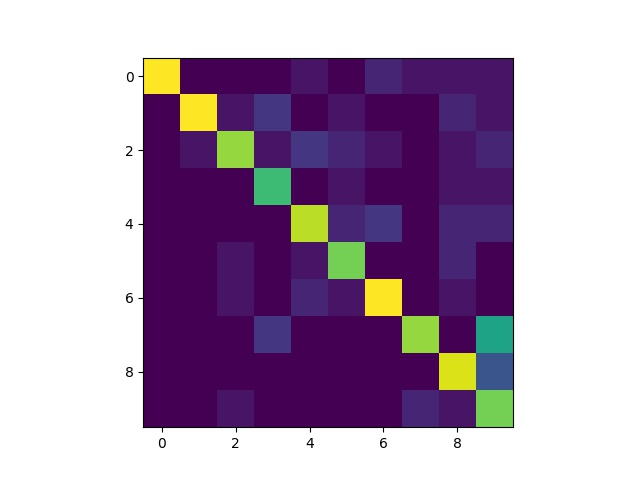
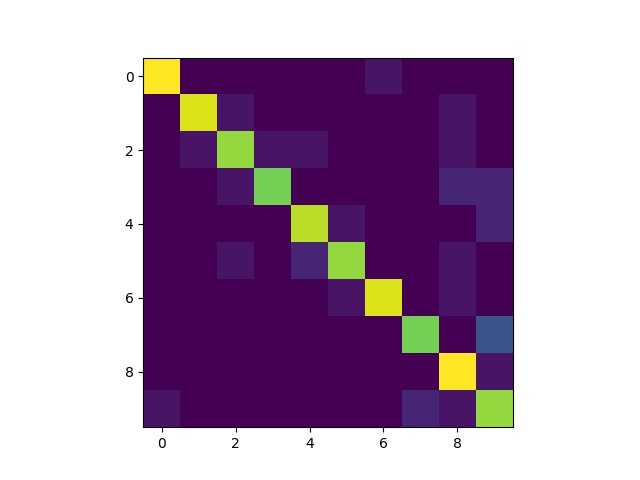
All learning rates tested

diff --git a/code.py b/code.py
@@ -3,7 +3,7 @@ import math
 import matplotlib.pyplot as plt
 
 def loadTrainingSet():
-    images = np.empty([2400, 785], dtype=np.float64)
+    images = np.empty([2400, 785])
     for i in range(1, 2401):
         img = plt.imread('./Train/' + str(i) + '.jpg')
         img2 = img.flatten()
@@ -21,34 +21,36 @@ def configureInitialWeightMatrix():
 def perceptron():
     images = loadTrainingSet()
     weights = configureInitialWeightMatrix()
-    n = 1
+    learning_rates = np.array([1, 0.1, 0.01, 0.001, 0.0001, 0.00001, 0.000001, 0.0000001, 0.00000001, 0.000000001])
 
-    confusionMatrix = np.zeros((10, 10))
-    for c in range(10):
-        print("Training Class " + str(c))
-        # handling targets
-        startingTarget = 240 * c  # 1*0, 1*1, 1*2....etc
-        target = np.full(2400, -1)
-        target[startingTarget:startingTarget + 240] = 1
+    for n in learning_rates:
+        confusionMatrix = np.zeros((10, 10))
+        for c in range(10):
+            print("Training Class " + str(c))
+            # handling targets
+            startingTarget = 240 * c  # 1*0, 1*1, 1*2....etc
+            target = np.full(2400, -1)
+            target[startingTarget:startingTarget + 240] = 1
 
-        for epoch in range(500):
-            for img in range(0, 2400):
-                currentImage = images[img]
-                if ((1 if (np.dot(weights[c], currentImage) >= 0) else -1) != target[img]):
-                    weights[c] = weights[c] + n * currentImage * target[img]
+            for epoch in range(500):
+                for img in range(0, 2400):
+                    currentImage = images[img]
+                    if ((1 if (np.dot(weights[c], currentImage) >= 0) else -1) != target[img]):
+                        weights[c] = weights[c] + n * currentImage * target[img]
 
-    for i in range(1, 201):
-        testImg = plt.imread('./Test/' + str(i) + '.jpg')
-        testImg = np.append(testImg.flatten(), 1)
-        dot = np.dot(weights, testImg)
-        index = np.argmax(dot)
-        confusionMatrix[((i - 1) // 20)][index] = confusionMatrix[((i - 1) // 20)][index] + 1
+        for i in range(1, 201):
+            testImg = plt.imread('./Test/' + str(i) + '.jpg')
+            testImg = np.append(testImg.flatten(), 1)
+            dot = np.dot(weights, testImg)
+            index = np.argmax(dot)
+            confusionMatrix[((i - 1) // 20)][index] = confusionMatrix[((i - 1) // 20)][index] + 1
 
-
-    print(confusionMatrix)
-    # plt.imshow(confusionMatrix)
-    # plt.savefig("./Confusion-0.jpg")
-    # plt.show()
+        position_n, = np.where(learning_rates == n)
+        print("Confusion Matrix - " + str(position_n[0]))
+        print(confusionMatrix)
+        plt.imshow(confusionMatrix)
+        plt.savefig("./Confusion-"+str(position_n[0]) +".jpg")
+        # plt.show()
 
 def naive():
     images = loadTrainingSet()
@@ -105,13 +107,12 @@ def confusionMatrixGenerator(mews, std_div):
 
 if __name__ == "__main__":
 
-    # images = loadTrainingSet()
-    # print(images[0, 10])
-    # perceptron()
-    # naive_test("./Test/142.jpg")
-    mews, standard_div = naive()
-    confusionMatrixGenerator(mews, standard_div)
-    # print(configureInitialWeightMatrix())
+    # Question 1
+    perceptron()
+
+    # Question 2
+    # mews, standard_div = naive()
+    # confusionMatrixGenerator(mews, standard_div)
 
     weight = [1, 2, 1]
     weight = np.array(weight)
